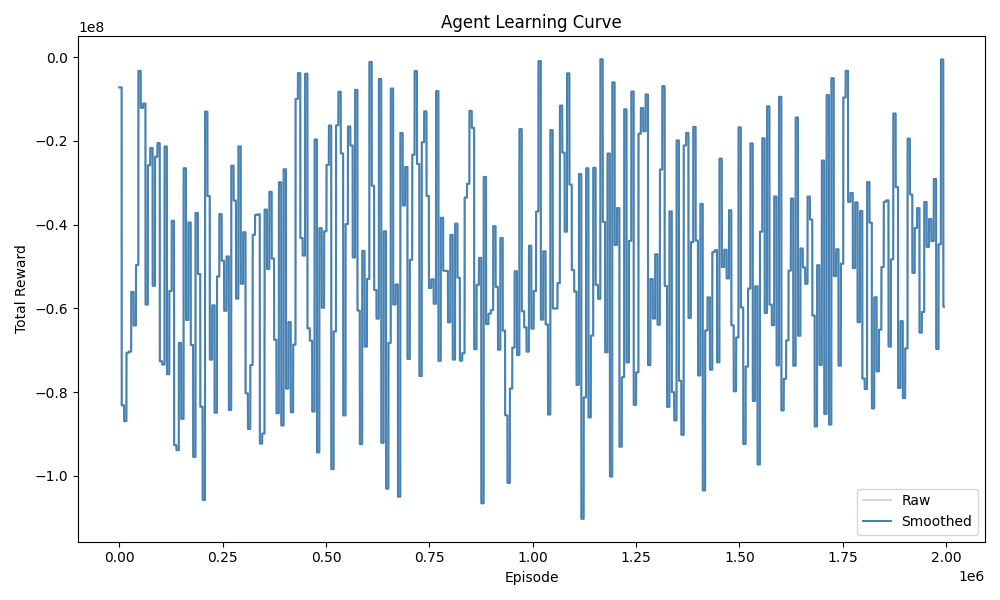
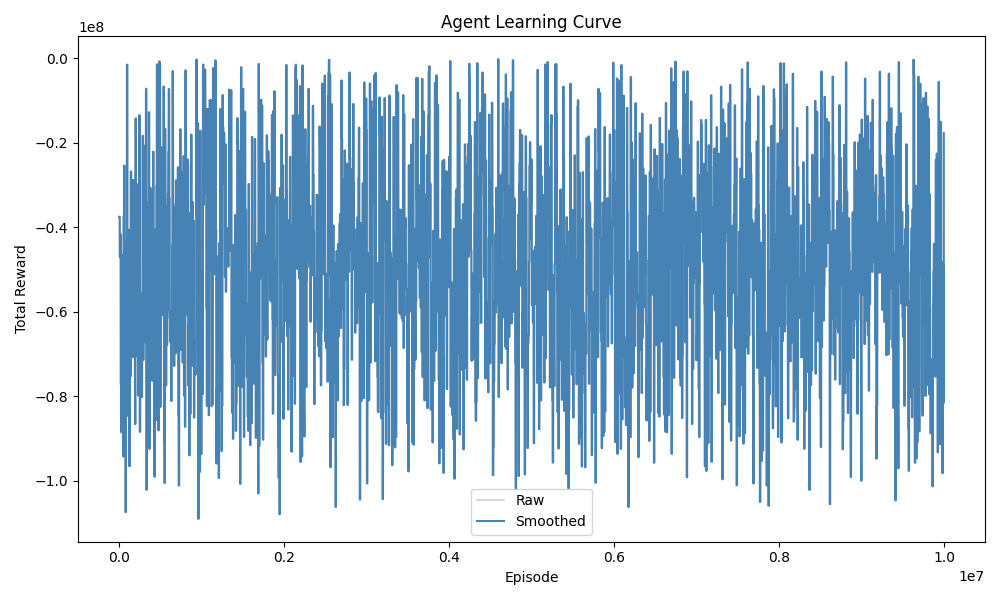
switch to PPO, fix callback duplicate recording bug, update all references

diff --git a/callbacks.py b/callbacks.py
@@ -18,12 +18,14 @@ class TrainingMetricsCallback(BaseCallback):
 
 
     # called automatically by Stable-baselines3 every single timestep during training
+    # only records data when a new episode has completed to avoid duplicate entries
+    # -> compares latest buffer reward to last recorded reward to detect new episodes
     def _on_step(self) -> bool:
-
-        # 'self.model.ep_info_buffer' - buffer that stores information about recently completed episodes
-        # 'len > 0' ensures that at least one episode has finished before trying to read from it
+        # only record when a new episode has completed
+        # checks if buffer has grown since last check to avoid duplicate recording
         if len(self.model.ep_info_buffer) > 0:
-            latest = self.model.ep_info_buffer[-1]      # sets the latest episode
-            self.episode_rewards.append(latest['r'])    # appends the total reward from the latest episode
-            self.episode_lengths.append(latest['l'])    # appends the length from the latest episode
+            if len(self.episode_rewards) == 0 or self.model.ep_info_buffer[-1]['r'] != self.episode_rewards[-1]:
+                latest = self.model.ep_info_buffer[-1]
+                self.episode_rewards.append(latest['r'])    # appends total reward from completed episode
+                self.episode_lengths.append(latest['l'])    # appends length of completed episode
         return True

diff --git a/evaluate.py b/evaluate.py
@@ -1,5 +1,5 @@
 from env.traffic_env import TrafficEnv  # import the traffic environment
-from stable_baselines3 import DQN       # RL algorithm being used to train the agent
+from stable_baselines3 import PPO       # RL algorithm being used to train the agent
 import numpy as np                      # will handle the math and arrays
 import matplotlib.pyplot as plt         # used for plotting the comparison results
 
@@ -45,7 +45,7 @@ scenarios = [
 
 
 
-model = DQN.load("dqn_traffic")     # loads the saved trained agent from 'dqn_traffic.zip'
+model = PPO.load("ppo_traffic")     # loads the saved trained agent from 'ppo_traffic.zip'
 num_episodes = 20                   # the number of episodes run per controller per scenario
 
 results = {}                        # dictionary to store the results for every scenario
@@ -61,14 +61,14 @@ for scenario in scenarios:
         ew_multiplier=scenario["ew_multiplier"]
     )
     
-    dqn_rewards = []        # stores DQN agent rewards
+    ppo_rewards = []        # stores PPO agent rewards
     random_rewards = []     # stores random signal rewards
     fixed_rewards = []      # stores fixed timer rewards
 
 
     # runs 20 episodes for each controller in this scenario
     for _ in range(num_episodes):
-        dqn_rewards.append(run_episode(env, model=model))           # runs DQN agent for one episode
+        ppo_rewards.append(run_episode(env, model=model))           # runs PPO agent for one episode
         random_rewards.append(run_episode(env, model=None))         # runs random controller for one episode
         fixed_rewards.append(run_episode(env, fixed_timer=True))    # runs fixed timer for one episode
 
@@ -76,9 +76,9 @@ for scenario in scenarios:
     # stores results for this scenario in the results disctionary
     # -> maps each controller name to its list of 20 rewards
     results[scenario["name"]] = {
-        "DQN":        dqn_rewards,
+        "PPO": ppo_rewards,
         "Fixed Timer": fixed_rewards,
-        "Random":     random_rewards
+        "Random": random_rewards
     }
 
 

diff --git a/train.py b/train.py
@@ -1,5 +1,5 @@
 from env.traffic_env import TrafficEnv          # import the traffic environment
-from stable_baselines3 import DQN               # RL algorithm being used to train the agent
+from stable_baselines3 import PPO               # RL algorithm being used to train the agent
 from callbacks import TrainingMetricsCallback   # callback to record episode rewards and lengths during training
 import matplotlib.pyplot as plt                 # used for plotting the learning curve
 import numpy as np                              # used for math and array utilities
@@ -8,11 +8,11 @@ import numpy as np                              # used for math and array utilit
 env = TrafficEnv()  # creates an instance of the traffic environment
 
 
-# creates the DQN agent - three things passed in
-# -> 'MlpPolicy' - tells DQN to use the 'Multi-Layer Perceptron' neural network internally
+# creates the PPO agent - three things passed in
+# -> 'MlpPolicy' - tells PPO to use the 'Multi-Layer Perceptron' neural network internally
 # -> 'env' - the environment the agent train in
 # -> 'verbose=1' - tells the algorithm to print training progress to the terminal
-model = DQN(
+model = PPO(
     "MlpPolicy",
     env,
     verbose=1
@@ -27,7 +27,7 @@ model.learn(total_timesteps=10000000, callback=callback)
 
 
 
-model.save("dqn_traffic")                   # saves the trained agent to a file named 'dqn_traffic.zip'
+model.save("ppo_traffic")                   # saves the trained agent to a file named 'ppo_traffic.zip'
 print("Training complete. Model saved.")    # confirms in the terminal that training completed successfully
 
 